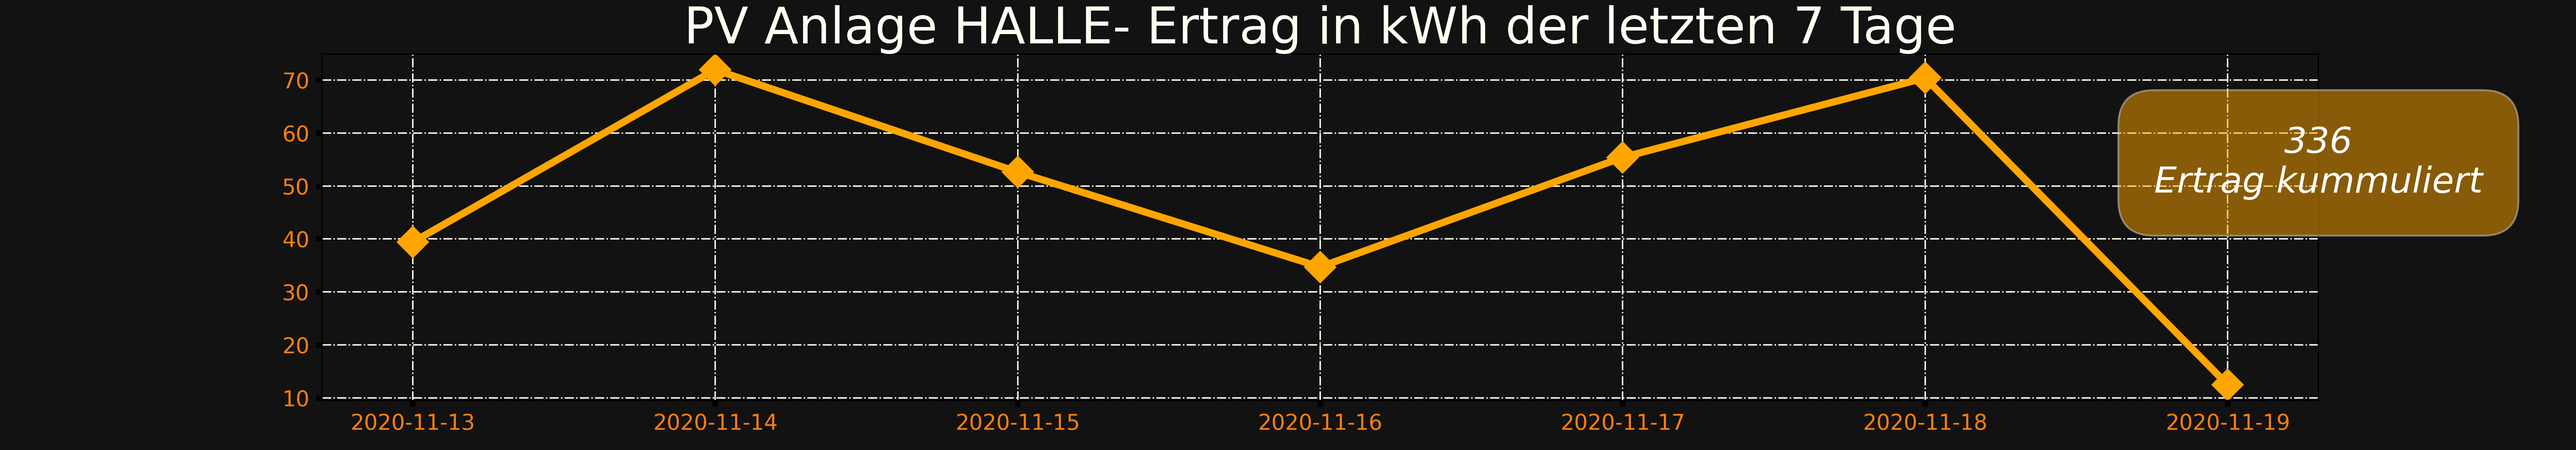
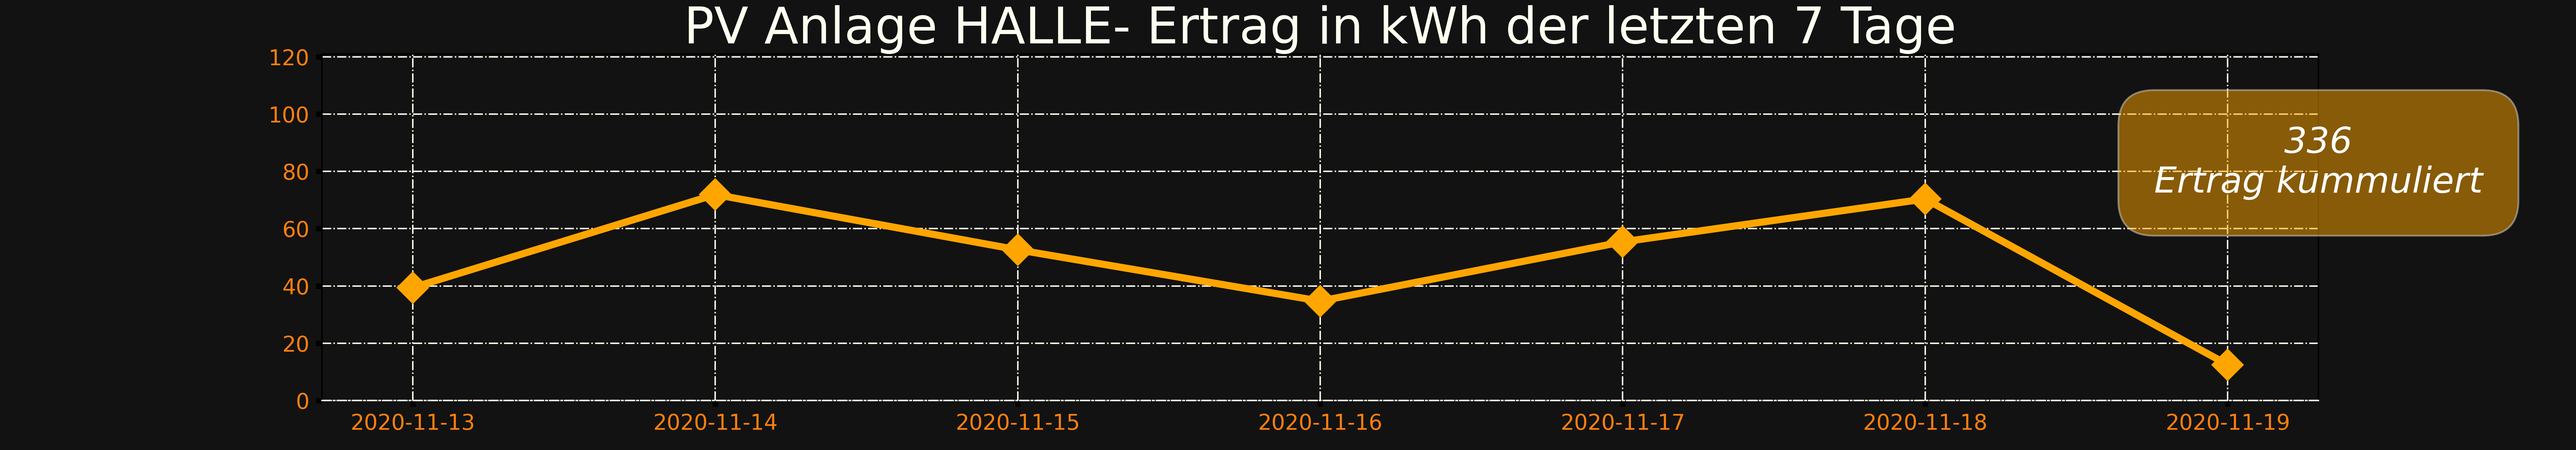
final

diff --git a/html_output/halle_pv.html b/html_output/halle_pv.html
@@ -17,7 +17,7 @@ img.plot {
 
 </style>
 
-<title>Covid</title>
+<title>PV Anlage</title>
 </head>
 <body>
     <!-- Optional JavaScript -->
@@ -32,8 +32,7 @@ img.plot {
     <tr>
         <!-- <tr><td style="text-align:center"><img src="https://storage.googleapis.com/darkshadow-share/corona1.png" class="logo"></td>     -->
 <td colspan = 5><img src="https://storage.googleapis.com/solar-anlage-gm/halle_last7days.png" class="plot"></td>
-'
-                </tr>
+    </tr>
 
     <!-- <tr>
       <th scope="col" style="vertical-align: middle">#</th>
@@ -43,9 +42,16 @@ img.plot {
     </tr> -->
   </thead>
   <tbody>
+<tr><td colspan = 5><img src="https://storage.googleapis.com/solar-anlage-gm/halle_pv_2020.png" class="plot"></td></tr>
 <tr><td colspan = 5><img src="https://storage.googleapis.com/solar-anlage-gm/halle_pv_2019.png" class="plot"></td></tr>
-<tr><td colspan = 5><img src="https://storage.googleapis.com/solar-anlage-gm/halle_pv_2020.png" class="plot"></td></tr>
-<tr><td colspan = 5><img src="https://storage.googleapis.com/solar-anlage-gm/halle_pv_2020.png" class="plot"></td></tr>
+<tr><td colspan = 5><img src="https://storage.googleapis.com/solar-anlage-gm/halle_pv_2018.png" class="plot"></td></tr>
+<tr><td colspan = 5><img src="https://storage.googleapis.com/solar-anlage-gm/halle_pv_2017.png" class="plot"></td></tr>
+<tr><td colspan = 5><img src="https://storage.googleapis.com/solar-anlage-gm/halle_pv_2016.png" class="plot"></td></tr>
+<tr><td colspan = 5><img src="https://storage.googleapis.com/solar-anlage-gm/halle_pv_2015.png" class="plot"></td></tr>
+<tr><td colspan = 5><img src="https://storage.googleapis.com/solar-anlage-gm/halle_pv_2014.png" class="plot"></td></tr>
+<tr><td colspan = 5><img src="https://storage.googleapis.com/solar-anlage-gm/halle_pv_2013.png" class="plot"></td></tr>
+<tr><td colspan = 5><img src="https://storage.googleapis.com/solar-anlage-gm/halle_pv_2012.png" class="plot"></td></tr>
+<tr><td colspan = 5><img src="https://storage.googleapis.com/solar-anlage-gm/halle_pv_2011.png" class="plot"></td></tr>
   </tbody>
 </table>
   

diff --git a/html_output/mike_pv.html b/html_output/mike_pv.html
@@ -17,7 +17,7 @@ img.plot {
 
 </style>
 
-<title>Covid</title>
+<title>PV Anlage</title>
 </head>
 <body>
     <!-- Optional JavaScript -->
@@ -32,8 +32,7 @@ img.plot {
     <tr>
         <!-- <tr><td style="text-align:center"><img src="https://storage.googleapis.com/darkshadow-share/corona1.png" class="logo"></td>     -->
 <td colspan = 5><img src="https://storage.googleapis.com/solar-anlage-gm/mike_last7days.png" class="plot"></td>
-'
-                </tr>
+    </tr>
 
     <!-- <tr>
       <th scope="col" style="vertical-align: middle">#</th>
@@ -43,9 +42,16 @@ img.plot {
     </tr> -->
   </thead>
   <tbody>
+<tr><td colspan = 5><img src="https://storage.googleapis.com/solar-anlage-gm/mike_pv_2020.png" class="plot"></td></tr>
 <tr><td colspan = 5><img src="https://storage.googleapis.com/solar-anlage-gm/mike_pv_2019.png" class="plot"></td></tr>
-<tr><td colspan = 5><img src="https://storage.googleapis.com/solar-anlage-gm/mike_pv_2020.png" class="plot"></td></tr>
-<tr><td colspan = 5><img src="https://storage.googleapis.com/solar-anlage-gm/mike_pv_2020.png" class="plot"></td></tr>
+<tr><td colspan = 5><img src="https://storage.googleapis.com/solar-anlage-gm/mike_pv_2018.png" class="plot"></td></tr>
+<tr><td colspan = 5><img src="https://storage.googleapis.com/solar-anlage-gm/mike_pv_2017.png" class="plot"></td></tr>
+<tr><td colspan = 5><img src="https://storage.googleapis.com/solar-anlage-gm/mike_pv_2016.png" class="plot"></td></tr>
+<tr><td colspan = 5><img src="https://storage.googleapis.com/solar-anlage-gm/mike_pv_2015.png" class="plot"></td></tr>
+<tr><td colspan = 5><img src="https://storage.googleapis.com/solar-anlage-gm/mike_pv_2014.png" class="plot"></td></tr>
+<tr><td colspan = 5><img src="https://storage.googleapis.com/solar-anlage-gm/mike_pv_2013.png" class="plot"></td></tr>
+<tr><td colspan = 5><img src="https://storage.googleapis.com/solar-anlage-gm/mike_pv_2012.png" class="plot"></td></tr>
+<tr><td colspan = 5><img src="https://storage.googleapis.com/solar-anlage-gm/mike_pv_2011.png" class="plot"></td></tr>
   </tbody>
 </table>
   

diff --git a/html_template/photovoltaik_html_template.html b/html_template/photovoltaik_html_template.html
@@ -17,7 +17,7 @@ img.plot {
 
 </style>
 
-<title>Covid</title>
+<title>PV Anlage</title>
 </head>
 <body>
     <!-- Optional JavaScript -->

diff --git a/photovoltaik.py b/photovoltaik.py
@@ -25,12 +25,13 @@ current_year = today[6:10]
 years=[]
 if len(sys.argv) > 1:
     if sys.argv[1] == 'history':
-        for year in range(2011, int(current_year)+1):
+        history_flag = 1
+        for year in range(int(current_year), 2010, -1):
             years.append(year)
 else:
     years.append(int(current_year))
 
-years = [2020,2019]
+#years = [2020,2019]
 
 gs_folder = "solar-anlage-gm/"
 
@@ -87,11 +88,13 @@ def start_workflow(key, value, years):
                 print ("alle Daten schon vorhanden")
        
         make_graph(year, path, plot_filename, colors)
+    
         upload_plot(plot_filename)     
 
-    upload_plot(plotlast7days)
-    html(value['plotname'])
-    upload_html(html_out_filename)
+    # upload_plot(plotlast7days)
+    if history_flag == 1:
+        html(value['plotname'], years)
+        upload_html(html_out_filename)
 
 def get_date(url, path):
     #read max date from shelve db
@@ -144,6 +147,7 @@ def make_graph(year, path, plot_filename, colors):
     df_last7days.set_index(df_last7days.Datum, inplace=True)
     df_last7days = df_last7days.resample('D').sum().fillna(0)
     df_last7days = df_last7days.loc[day7:today]
+    
     kum_value_7days = df_last7days['HausGesamt'].sum().astype(int) 
     max_value_7days = df_last7days['HausGesamt'].max().astype(int) 
 
@@ -162,7 +166,10 @@ def make_graph(year, path, plot_filename, colors):
     ax1.plot(df_last7days.index, df_last7days['HausGesamt'], color=color_7day, marker="D", label='kWh', markersize = 12, linewidth=4.0, zorder=2)
     ax1.set_xticks(df_last7days.index)
     ax1.tick_params(labelcolor='tab:orange',labelsize='large', width=3)
+    ax1.set_ylim(0, max_value_7days + 50)
     ax1.grid(True, linestyle='-.', color=colors['text-color']) 
+    ax1.spines['bottom'].set_color(colors['text-color'])
+    ax1.spines['bottom'].set_linestyle('-.')
     #for p in ax1.patches:
     #    ax1.annotate("%d" % p.get_height(), (p.get_x() + p.get_width() / 2., p.get_height()), ha='center', va='center', xytext=(0, 10), textcoords='offset points', color=colors['text-color'] ,fontsize=14)
 
@@ -303,20 +310,21 @@ def get_values_from_pv(start_date, end_date, url, path):
 
 def upload_plot(plot_filename):
     global gs_folder
-    cmd1 = f'gsutil cp {plot_filename} gs://{gs_folder}'
+    cmd1 = f'gsutil -h "Cache-Control:no-cache,max-age=0" cp -a public-read {plot_filename} gs://{gs_folder}'
     cmd2 = f'gsutil acl ch -u AllUsers:R gs://{gs_folder}{plot_filename}'
     os.system(cmd1)
     os.system(cmd2)
 
 def upload_html(html_out_filename):
     global gs_folder
-    cmd1 = f'gsutil cp html_output/{html_out_filename} gs://{gs_folder}'
+    cmd1 = f'gsutil -h "Cache-Control:no-cache,max-age=0" cp -a public-read html_output/{html_out_filename} gs://{gs_folder}'
     cmd2 = f'gsutil acl ch -u AllUsers:R gs://{gs_folder}{html_out_filename}'
     os.system(cmd1)
     os.system(cmd2)
 
-def html(plotname):
+def html(plotname, years):
     jahre = years[:]
+    print ('jahre', jahre)
     add_line=[]
     i = 1
     html_template = os.path.join(os.path.expanduser(dir+"/html_template"), 'photovoltaik_html_template.html')
@@ -330,14 +338,15 @@ def html(plotname):
 
     for item in html_code:
         if item.find('##TABLEHEADER##') > 0:
-            item = f'''<td colspan = 5><img src="https://storage.googleapis.com/{gs_folder}{plotlast7days}" class="plot"></td>\n'
-            '''
-
+            item = f'<td colspan = 5><img src="https://storage.googleapis.com/{gs_folder}{plotlast7days}" class="plot"></td>\n'
+            
         if item.find('##PV_DATA##') > 0:
             while jahre:
-                year = jahre.pop()
+                year = jahre.pop(0)
+                print (year)
                 item = f'<tr><td colspan = 5><img src="https://storage.googleapis.com/{gs_folder}{plotname}{year}.png" class="plot"></td></tr>\n'
-                if len(years)>0: 
+                if len(jahre)>0: 
+                    print ("html link", item)
                     htmlfile.write(item)
                 else:
                     pass
